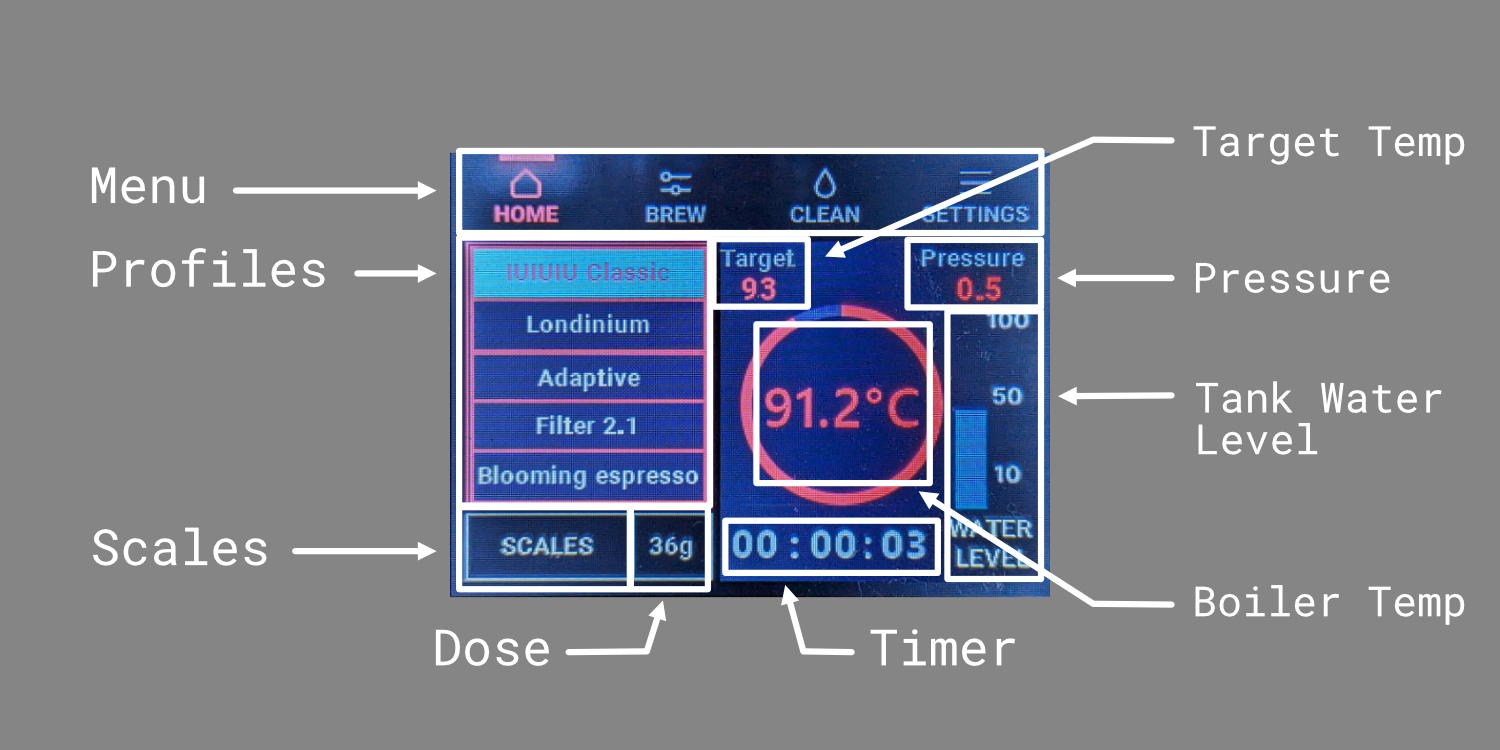
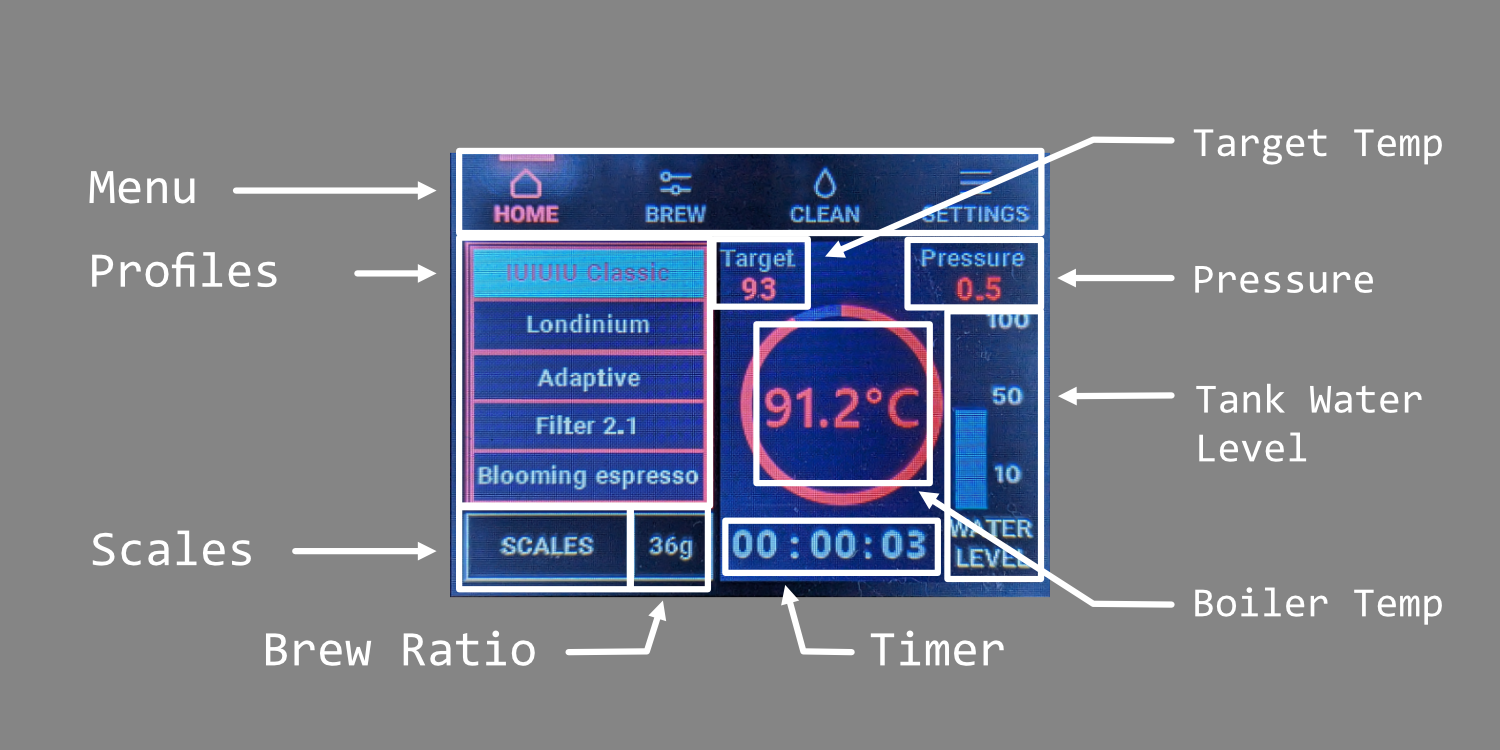
update

diff --git a/docs/learning/functions-guide.md b/docs/learning/functions-guide.md
@@ -1,89 +1,105 @@
 > [!NOTE]
 > This page is a work in progress.
+
+Special Thanks to:
+wundersnooch
+np_x
+EuphoricCatastrophe
+
 # Startup
 <img alt="Startup" src="manual/00_000_startup.png">
 
-- **Build Number**: 35b2d4d is the last Nextion Release, missing number indicates no communitaion between the Nextion and the microcontroller.
+- **Build Number**: 35b2d4d is the last Nextion Release, missing number indicates no communication between the Nextion and the micro controller.
 
 # Home
-<img height="300" alt="Home" src="manual/01_000_home.png">
+<img alt="Home" src="manual/01_000_home.png">
 
 - **Menu**: The main menu.
-- **Pofiles**: Tap to select, hold to rename. Last renamed profile is set as default profile. The following described by wundersnooch. (Thanks for your effort!)
-  - *IUIUIU Classic* : A lower pressure profile with average length preinfusion and soak stages. A good all-rounder profile that should suit most beans with some tweaking.
+- **Profiles**: Tap to select, hold to rename. Last renamed profile is set as default profile.
+  - *IUIUIU Classic* : A lower pressure profile with average length pre-infusion and soak stages. A good all-rounder profile that should suit most beans with some tweaking.
   - *Londonium* : Simulates the extraction style and profile of a Londonium R lever machine. Described as pulling shots that are smooth with great body and an appealing syrupiness. Similar to the previous default profile, for those that are missing it. A flexible style suited for all bean and roast types, with usual consideration given to properly dialing in.
-  - *Adaptive* : Designed to adapt to a given grind size by making the extraction phase decide the steady state flow relative to flow at peak pressure, as well as a pressurised bloom stage to maintain puck integrity resulting in a more consitent puck resistence. This allows it to be relatively forgiving to a range of grind settings. Best for light roasts, if using with darker roasts consider reducing temps and a shorter bloom. Use with a ratio between 1:2 and 1:25 with total shot times ranging from 25 to 45 seconds.
+  - *Adaptive* : Designed to adapt to a given grind size by making the extraction phase decide the steady state flow relative to flow at peak pressure, as well as a pressurized bloom stage to maintain puck integrity resulting in a more consistent puck resistance. This allows it to be relatively forgiving to a range of grind settings. Best for light roasts, if using with darker roasts consider reducing temps and a shorter bloom. Use with a ratio between 1:2 and 1:25 with total shot times ranging from 25 to 45 seconds.
   - *Filter 2.1* : Used to make filter-style coffee with nothing but your espresso machine, some paper filters and a puck screen. Use a 58mm paper filter (or cut one to size) in the bottom of your portafilter basket, rise with hot water and fill with ground coffee (coarser than typical espresso but much finer than you would usually use for filter). WDT and optional(!) tamp. Place the metal puck screen on top and pull the shot to a 5:1 ratio. Dilute shot with 225-250g of water.
-  - *Blooming Espresso* : Designed to maximise extraction quality and quanity with a flow-controlled pre-infusion and a long "blooming" phase, which allows the puck to become fully saturated before extraction. Best for light roasts, complex beans to draw out flavours the way a pourover would, while preventing sourness and sharpness.
+  - *Blooming Espresso* : Designed to maximize extraction quality and quantity with a flow-controlled pre-infusion and a long "blooming" phase, which allows the puck to become fully saturated before extraction. Best for light roasts, complex beans to draw out flavours the way a pour over would, while preventing sourness and sharpness.
 - **Target Temp**: Target temperature of the boiler. Normally set to brew temp ( ~ 93&deg;C ), but will display steam temp when switched on ( ~ 155&deg;C ). This is set under -> Settings -> Temp.
 - **Boiler Temp**: Current boiler temperature.
 - **Pressure**: Current system pressure in bars.
 - **Dose**: Adjust dose. Affects both Hardware and Predictive Scales.
 - **Scales**: Hardware Scales required. View and tare scales. 
 - **Tanks Water Level**: ToFnLED required. 0 to 100%.
-- **Timer**: Machine uptime, counts from 0.
-- **Dropping Beats**: Pressure release that happens about every minute if needed.
+- **Timer**: Machine uptime, counts from 0. 10 to 15 minute warm-up is recommended.
+- **Dropping Beats**: Pressure release through the group head, happens every minute if over 0.6 bar.
 
-# Home -> Dose
-<img height="300" alt="Dose" src="manual/01_001_dose.png">
+# Home -> Brew Ratio
+<img alt="Dose" src="manual/01_001_dose.png">
 
-- **Stop On Weight**: Stop on espress shot weight. Affects both Hardware and Predictive Scales. 
+- **Stop On Weight**: Stop on espresso shot weight. Affects both Hardware and Predictive Scales. 
 - **Coffee Dose**: Input weight of coffee grounds.
 - **Brew Ratio**: Input weight of coffee grounds compared to the output weight of the espresso shot.
 - **Shot Weight Override**: Manual override of the output weight, completely ignores **Coffee Dose** and **Brew Ratio**, set 0 to disable.
 
 # Home -> Scales
-<img height="300" alt="Scales" src="manual/01_002_scales.png">
+<img alt="Scales" src="manual/01_002_scales.png">
 
 Hardware Scales Required
 - **Weight**: Current scale weight.
 - **Tare**: Tares the scales. Scales auto tare on brew.
 
+# Home -> Profile Rename
+<img alt="Profile" src="manual/01_003_rename.png">
+
+To access the **Profile Rename** screen long press on a profile from the **Home** screen. 
+- **Profile**: Change a profile’s name.
+- **Load Default**: Reload the settings and values for that profile slot back to default.
+- **Okay**: Renames the selected profile and sets it to the default profile that will load at start-up. Renaming is not required to set to default.
+
 # Brew
-<img height="300" alt="Brew" src="manual/02_000_brew.png">
+<img alt="Brew" src="manual/02_000_brew.png">
 
 - **Reset Weight**: Resets the weight, when on predictive scales press this when the first drips hit the cup.
 
-# Brew -> Preinfusion
-<img height="300" alt="PI" src="manual/02_001_pi.png">
+# Brew -> Pre-Infusion
+<img alt="PI" src="manual/02_001_pi.png">
 
-Preinfusion (PI) fills the basket until a threshold pressure or time is reached at specified ml/s. The idea of preinfusion is to saturate the puck of coffee, with the aim of increasing evenness of extraction and reducing channeling. It also helps when extracting lighter roasts, which are harder to extract.
+Pre-infusion (PI) fills the basket until a threshold is reached. The idea of pre-infusion is to saturate the puck of coffee, with the aim of increasing evenness of extraction and reducing channeling. It also helps when extracting lighter roasts, which are harder to extract.
 - **PI On / Off**: Turns PI on or off.
 - **Flow / Bar**: Determines if flow or pressure is the PI target.
 - **Fill**: Target for the PI phase.
   - **Time**: Target length of the PI phase in seconds.
   - **Flow**: Target flow rate for the PI phase.
   - **Pressure**: Target pressure for the PI phase.
-- **Switch On**: When one of the folowing trigger move on to the Soak phase.
-  - **Filled**: Amount of water pumped as an exit criteria.
+- **Switch On**: When one of the following trigger, move on to the **Soak** phase.
+  - **Filled**: Exit when amount water pumped is set value in mL.
   - **Pressure Above**: Pressure as an exit criteria if true or as a restriction if false.
-  - **Weight Above**: Shot weight as an exit PI criteria.
+  - **Weight Above**: Exit when weight is above set value in grams.
 - **Preview**: Preview the current profile.
 
 Example: if you set a flow target of 8 ml/s, you set a time of 20, pressure of 4.5, filled of 100 and weight above of 5g, and you tick pressure above off. The system will try to hit 8ml/s but only if the pressure is at or under 4.5bars. so if you grind finely, then that high of a flow rate can't be achieved so it'll do the best it can, maybe it will settle at 4ml/s. This will continue until either one of these things happen: you pumped more than a 100ml of water, you got 5g in the cup, or you hit 20s of time. (Thanks np_x!)
 
 # Brew -> Soak
-<img height="300" alt="Soak" src="manual/02_002_soak.png">
+<img alt="Soak" src="manual/02_002_soak.png">
 
-Soak turns pump off completely allowing the built pressure during the fill phase to penetrate the puck naturally.
-- **Soat On / Off**: Turns soak on or off.
-- **Time**:  Sets the length of the soaking (blooming) phase
-- **Maintain Pressure**:
-- **Maintain Flow**:
-- **Weight Above**:
-- **Pressure Above**:
-- **Pressure Below**:
-- **Ramp/Slope**:
-- **Ramp/Slope Type**: See easing section.
+Soak turns pump off completely allowing the built pressure during the pre-infusion phase to penetrate the puck naturally. This helps because it theoretically allows some of the trapped C02 from roasting coffee to escape, allowing easier extractions. If you have a darker roast, you might or might not want to do this phase, since darker roasts are easier to extract.
+- **Soak On / Off**: Turns soak on or off.
+- **Target**: Target for the Soak phase.  If you keep only one above 0, then the system will aim to maintain that target during the soak phase. If more than one are above zero, the system interprets that as a pressure target with a flow restriction. if you say don't pump any water in (i.e. both are 0) then pressure will gradually fall as the puck resistance falls, resulting in a decline in pressure and/or increase in weight.
+  - **Time**: Sets the length of the soaking (blooming) phase.
+  - **Maintain Pressure**: Machine will attempt to maintain pressure at set value in bars.
+  - **Maintain Flow**: Machine will attempt to maintain flow at set value in mL/s.
+- **Switch On**: When one of the following trigger, move on to the **Pressure Profile** phase.
+  - **Weight Above**: Exit when weight is above set value in grams.
+  - **Pressure Above**: Exit when pressure is above set value in bars.
+  - **Pressure Below**: Exit when Pressure is below set value in bars.
+- **Ramp/Slope**: Number of seconds it should take to get to the resulting target.
+- **Ramp/Slope Type**: Transition curve type, which corresponds to how the machine will get to its target. See easing section.
 
 # Brew -> Pressure Profile
-<img height="300" alt="PP" src="manual/02_003_profile.png">
+<img alt="PP" src="manual/02_003_profile.png">
 
 - **Profile On / Off**: Turns profiling on or off.
 - **Flow / Bar**: Determines if flow or pressure is the PP target.
 - **Start**: Sets the desired starting point of the PP phase, can be High->Low or Low->High.
 - **End**: Sets the desired finish point of the PP phase, same as above can be from High->Low or Low->High.
-- **Ramp/Slope**: Sets the length (aka curve speed) of the PP drop/raise behaviour, so one can change the pressure slow or fast if desired.
+- **Ramp/Slope**: Sets the length (aka curve speed) of the PP drop/raise behavior, so one can change the pressure slow or fast if desired.
 - **Ramp/Slope Type**: See easing section.
 - **Pressure Limit**:
 - **Transition**: Advanced
@@ -91,7 +107,7 @@ Soak turns pump off completely allowing the built pressure during the fill phase
 
 
 # Brew -> Advanced
-<img height="300" alt="Advanced" src="manual/02_004_advanced.png">
+<img alt="Advanced" src="manual/02_004_advanced.png">
 
 - **Profile On / Off**: Turns profiling on or off.
 - **Flow / Bar**: Determines if flow or pressure is the PP target.
@@ -105,16 +121,16 @@ Soak turns pump off completely allowing the built pressure during the fill phase
 - **Preview**: Preview the current profile.
 
 # Brew -> Preview
-<img height="300" alt="Preview" src="manual/02_005_preview.png">
+<img alt="Preview" src="manual/02_005_preview.png">
 
 Sample profile preview.
 
-<img height="380" alt="Classic" src="manual/declining_pp_classic.png">
+<img alt="Classic" src="manual/declining_pp_classic.png">
 
 Here is a classic pre-example of a declining pressure profile.
 
 # Brew -> Manual
-<img height="300" alt="Manual" src="manual/02_006_manual.png">
+<img alt="Manual" src="manual/02_006_manual.png">
 
 Manual pressure control at brew time.
   - **Status**
@@ -127,19 +143,18 @@ Manual pressure control at brew time.
   - **Flow**: Current flow rate in mililiter per second.
 
 # Brew -> More
-<img height="300" alt="More" src="manual/02_007_more.png">
+<img alt="More" src="manual/02_007_more.png">
 
 - **Home On Finish**: Automatically return to the **Home Screen** after 10 seconds have passed since the brew has been stopped.
 - **Brew Delta**: Boiler will increase temperature based on flow rate and be allowed to go over 100 C during the shot to more quickly transfer heat to the incoming cool water.
 - **Basket Prefill**: Fills the basket until pressure stabilises at greater than or equal 0.1 bar.
 
 # Steam
-<img height="300" alt="Steam" src="manual/02_008_steam.png">
+<img alt="Steam" src="manual/02_008_steam.png">
 
-Ready to steam. Open wand valve to release pressure if temperature stops building.
-
+Ready to steam. Open wand valve to release pressure if temperature sto
 # Clean -> Flush
-<img height="300" alt="Flush" src="manual/03_001_flush.png">
+<img alt="Flush" src="manual/03_001_flush.png">
 
 Flushing can be used in one of two ways. Cleaning grounds out of the grouphead after a shot and back flushing through the three wave valve. **Never flush between back to back shots.**
 - After shot flush
@@ -149,14 +164,14 @@ Flushing can be used in one of two ways. Cleaning grounds out of the grouphead a
   4. Turn off **Brew** switch.
 - Back flushing
   1. Insert blind basket into porta-filter.
-  2. *OPTIONAL* Add Cafiza to blind basket.
+  2. *OPTIONAL* Remove shower screen and add Cafiza to blind basket.
   3. Lock porta-filter into the grouphead.
   4. Turn on **Brew** switch.
   5. Let machine cycle several times
   6. Turn off **Brew** switch.
 
 # Clean -> Descale
-<img height="300" alt="Descale" src="manual/03_002_descale.png">
+<img alt="Descale" src="manual/03_002_descale.png">
 
 The descaling process takes around 45-50 minutes.
   1. Fill water tank to "MAX" with water and descale solution (possible 4-6tbsp citric acid per one tank of water).
@@ -169,10 +184,10 @@ The descaling process takes around 45-50 minutes.
   8. The pump should auto prime and continue the cleaning procedure.
   9. A **FINISHED** message will popup when descaling finishes.
   10. Turn off **Brew** switch.
-  11. Retrun to **Home Screen** and select any profile to re-enable brew mode.
+  11. Retrun to **Home** Screen and select any profile to re-enable brew mode.
 
 # Settings -> Temp
-<img height="300" alt="Temp" src="manual/04_001_temp.png">
+<img alt="Temp" src="manual/04_001_temp.png">
 
 - **Water Target Temp**: Water target temperature, set per profile.
 - **Steam Target Temp**: Steam target temperature, set system wide.
@@ -182,7 +197,7 @@ The descaling process takes around 45-50 minutes.
 - **Offset**: Offset value to calculate the real water temperature.
 
 # Settings -> System
-<img height="300" alt="System" src="manual/04_002_system.png">
+<img alt="System" src="manual/04_002_system.png">
 
 - **Load Cells**: Hardware scales load cell values.
 - **Pump Zero**: Amount of expeced water pumped per cycle in mL.
@@ -193,7 +208,7 @@ The descaling process takes around 45-50 minutes.
 - **Reset**: Reset machine to default settings and profiles.
 
 # Settings -> System -> LED
-<img height="300" alt="LED" src="manual/04_003_led.png">
+<img alt="LED" src="manual/04_003_led.png">
 
 ToFnLED Required.
 
